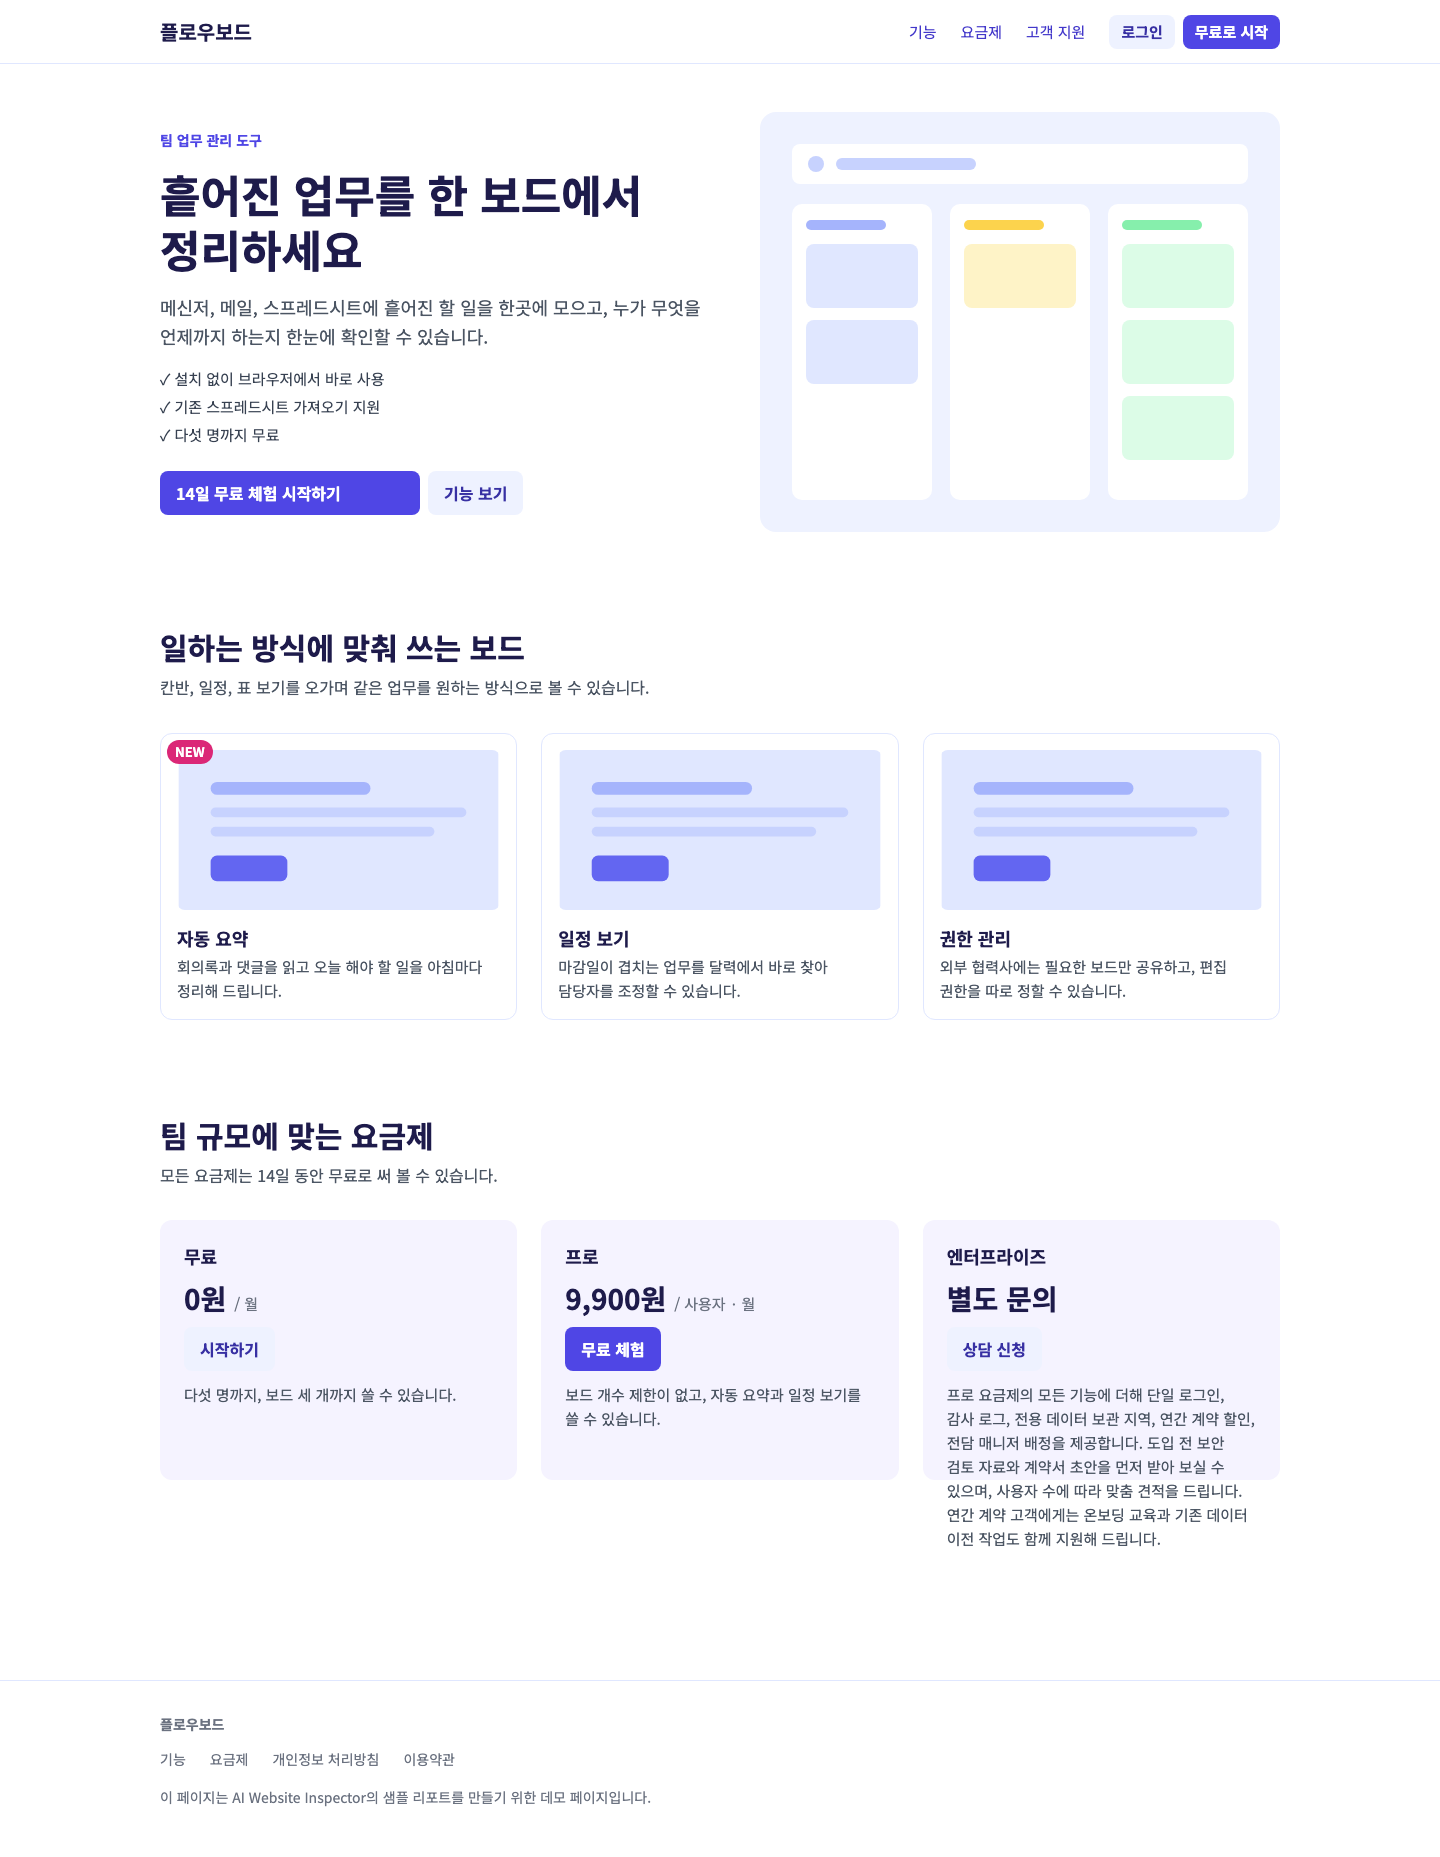
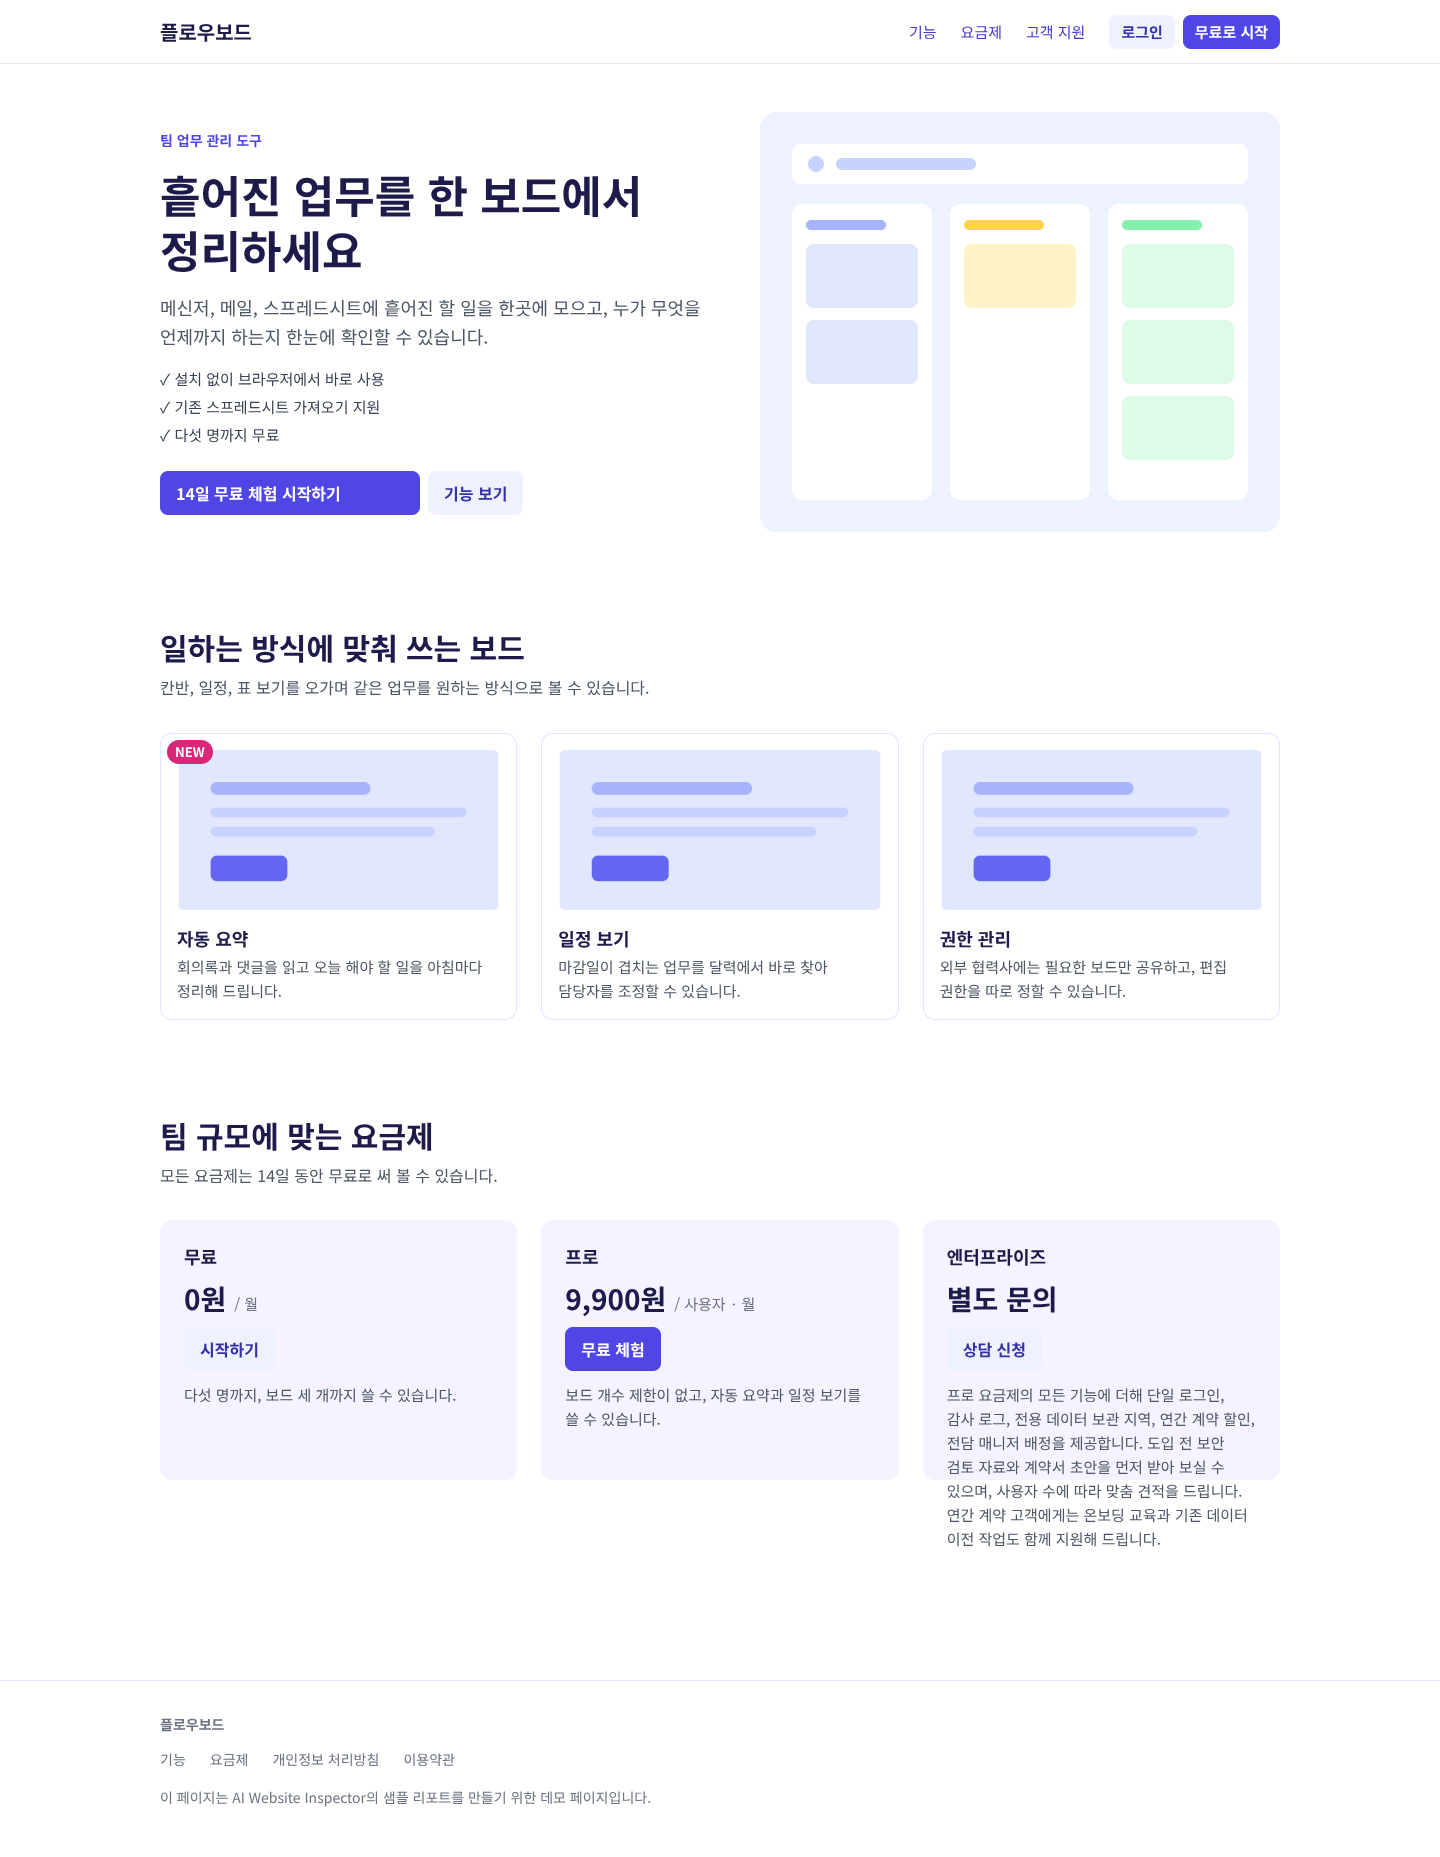
chore: 샘플 리포트를 production 데모 검사 결과로 교체 (T13)
- public/sample: pnpm import-sample로 받은 production 검사(eda0469a) 결과
- sample.test: 임시 샘플이 아닌 production 데모 검사 결과인지 확인
- ui-shots: /report/sample 기본·Issue Detail·태스크 화면, UI_SHOTS_ONLY 필터

diff --git a/scripts/ui-shots.ts b/scripts/ui-shots.ts
@@ -193,10 +193,17 @@ interface Screen {
   fullPage?: boolean;
 }
 
+/** UI_SHOTS_ONLY=sample 처럼 이름 앞부분으로 찍을 화면을 고른다 */
+const ONLY = process.env.UI_SHOTS_ONLY ?? '';
+
 const RETRY_URL = 'https://www.example.com/pricing?plan=team';
 
 const SCREENS: Screen[] = [
   { name: 'home', path: '/', ready: 'form' },
+  // T13 샘플 리포트: 정적 문서(public/sample)라 API mock이 필요 없다
+  { name: 'sample', path: '/report/sample', ready: 'text=샘플 리포트입니다' },
+  { name: 'sample-detail', path: '/report/sample?issue=ISS-005', ready: 'aside h2', fullPage: false },
+  { name: 'sample-tasks', path: '/report/sample?tab=tasks&task=TASK-002', ready: 'textarea' },
   {
     name: 'home-retry',
     path: '/',
@@ -311,7 +318,7 @@ async function main() {
         reducedMotion: 'reduce',
       });
       try {
-        for (const screen of SCREENS) {
+        for (const screen of SCREENS.filter((s) => !ONLY || s.name.startsWith(ONLY))) {
           const page = await context.newPage();
           await mockApi(page, responses);
           await screen.init?.(page);

diff --git a/tests/unit/sample.test.ts b/tests/unit/sample.test.ts
@@ -26,6 +26,17 @@ describe('public/sample/inspection.json', () => {
     expect(sample.status).toBe('completed');
   });
 
+  it('production에서 데모 페이지를 검사한 결과다 (임시 샘플이 아니다)', () => {
+    const sample = inspectionSchema.parse(readSample());
+    // 로컬 --local로 만든 임시 샘플의 고정 ID (tests/fixtures/run.ts PAGE_INSPECTION_ID)
+    expect(sample.id).not.toBe('00000000-0000-4000-8000-00000000d001');
+    const target = new URL(sample.url);
+    expect(target.protocol).toBe('https:');
+    expect(isDemoTarget(sample, new URL(target.origin))).toBe(true);
+    expect(sample.viewportErrors).toEqual({ desktop: null, mobile: null });
+    expect(sample.analysis.status).toBe('completed');
+  });
+
   it('screenshotUrl이 /sample/로 시작하고, PNG 크기가 문서와 같다', () => {
     const sample = inspectionSchema.parse(readSample());
     for (const v of ['desktop', 'mobile'] as const) {
